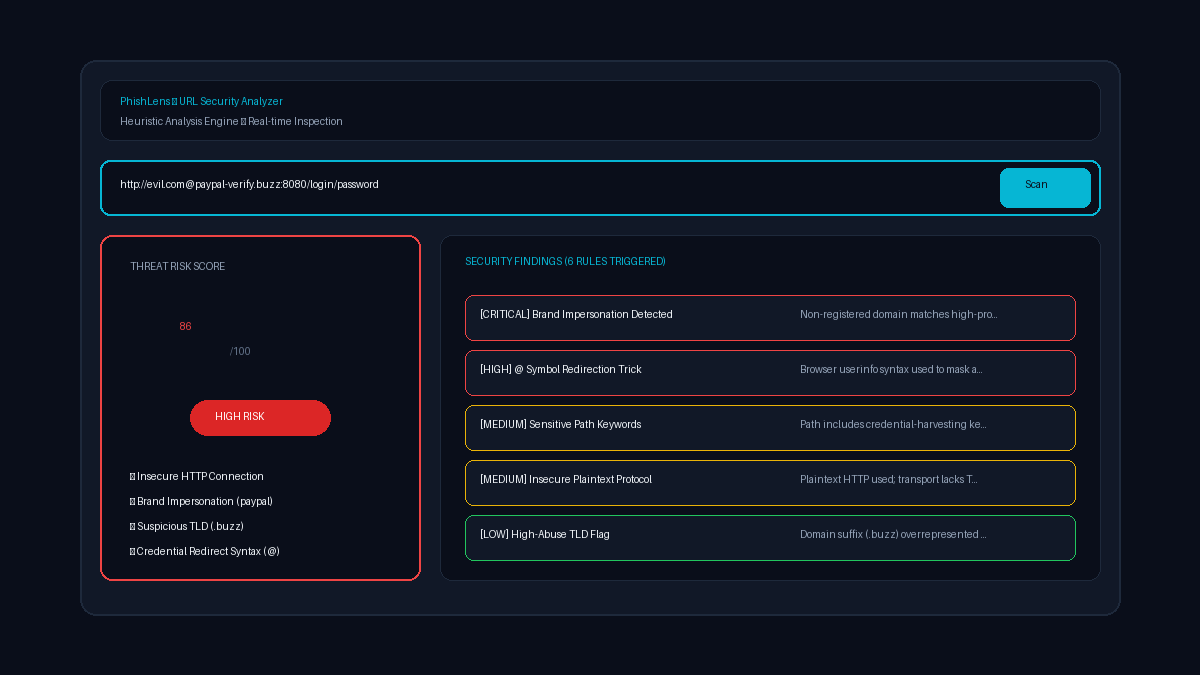
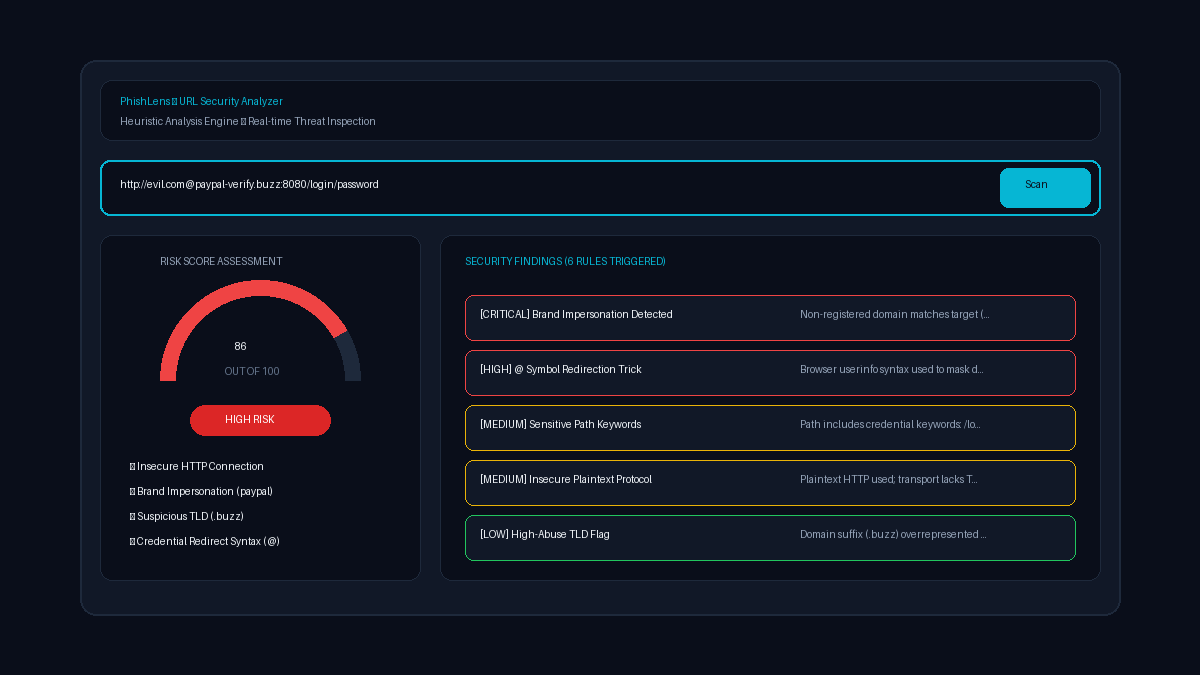
fix(ui): convert gauge from inverted curve to standard upward speedometer arch

diff --git a/frontend/src/components/RiskGauge.tsx b/frontend/src/components/RiskGauge.tsx
@@ -8,15 +8,16 @@ interface RiskGaugeProps {
 
 export default function RiskGauge({ score, level }: RiskGaugeProps) {
   const color = getRiskColor(level);
-  
-  // Semicircle gauge calculation
-  // Radius = 80, Circumference = 2 * PI * 80 = ~502.65
-  // For a semicircle, arc length = PI * 80 = ~251.33
-  const radius = 80;
-  const strokeWidth = 12;
+
+  // Speedometer Arch Geometry:
+  // Starts at left (25, 100), arches UP through (100, 25), ends at right (175, 100)
+  // Radius = 75, Circumference of half-circle = PI * 75 = ~235.62
+  const radius = 75;
+  const strokeWidth = 14;
   const arcLength = Math.PI * radius;
   const progress = Math.min(Math.max(score, 0), 100);
-  const strokeDashoffset = arcLength - (progress / 100) * arcLength;
+  // As score increases, strokeDashoffset decreases from arcLength to 0
+  const strokeDashoffset = arcLength * (1 - progress / 100);
 
   const levelLabels: Record<RiskLevel, { text: string; desc: string }> = {
     low: { text: 'LOW RISK', desc: 'Few or no risk indicators detected' },
@@ -25,45 +26,47 @@ export default function RiskGauge({ score, level }: RiskGaugeProps) {
   };
 
   return (
-    <div className="flex flex-col items-center justify-center p-6 bg-[#111827] rounded-xl border border-[#1e293b] text-center" data-testid="risk-gauge">
-      <div className="relative w-48 h-28 flex items-end justify-center overflow-hidden">
+    <div
+      className="flex flex-col items-center justify-center p-6 bg-[#111827] rounded-xl border border-[#1e293b] text-center"
+      data-testid="risk-gauge"
+    >
+      <div className="relative w-52 h-32 flex flex-col items-center justify-end overflow-hidden">
+        {/* Upward Arch Speedometer SVG */}
         <svg
-          className="w-48 h-48 -rotate-180 transform"
-          viewBox="0 0 200 200"
+          className="w-52 h-32"
+          viewBox="0 0 200 120"
+          fill="none"
           aria-hidden="true"
         >
-          {/* Background track arc */}
-          <circle
-            cx="100"
-            cy="100"
-            r={radius}
-            fill="none"
+          {/* Background track (dark arch over the top) */}
+          <path
+            d="M 25 105 A 75 75 0 0 1 175 105"
             stroke="#1e293b"
             strokeWidth={strokeWidth}
-            strokeDasharray={`${arcLength} ${arcLength}`}
             strokeLinecap="round"
           />
-          {/* Active progress arc */}
-          <circle
-            cx="100"
-            cy="100"
-            r={radius}
-            fill="none"
+
+          {/* Active progress arc (fills from left to right along the top) */}
+          <path
+            d="M 25 105 A 75 75 0 0 1 175 105"
             stroke={color}
             strokeWidth={strokeWidth}
-            strokeDasharray={`${arcLength} ${arcLength}`}
-            strokeDashoffset={strokeDashoffset}
             strokeLinecap="round"
+            strokeDasharray={arcLength}
+            strokeDashoffset={strokeDashoffset}
             className="transition-all duration-1000 ease-out"
           />
         </svg>
 
-        {/* Center score display */}
-        <div className="absolute inset-0 flex flex-col items-center justify-end pb-1">
-          <span className="text-4xl sm:text-5xl font-extrabold tracking-tight text-[#f1f5f9]" data-testid="score-value">
+        {/* Center score display positioned inside the arch */}
+        <div className="absolute inset-x-0 bottom-1 flex flex-col items-center justify-center">
+          <span
+            className="text-4xl sm:text-5xl font-black tracking-tight text-[#f1f5f9] leading-none"
+            data-testid="score-value"
+          >
             {score}
           </span>
-          <span className="text-xs text-[#64748b] font-medium uppercase tracking-wider">
+          <span className="text-[11px] text-[#64748b] font-semibold uppercase tracking-wider mt-1">
             out of 100
           </span>
         </div>
